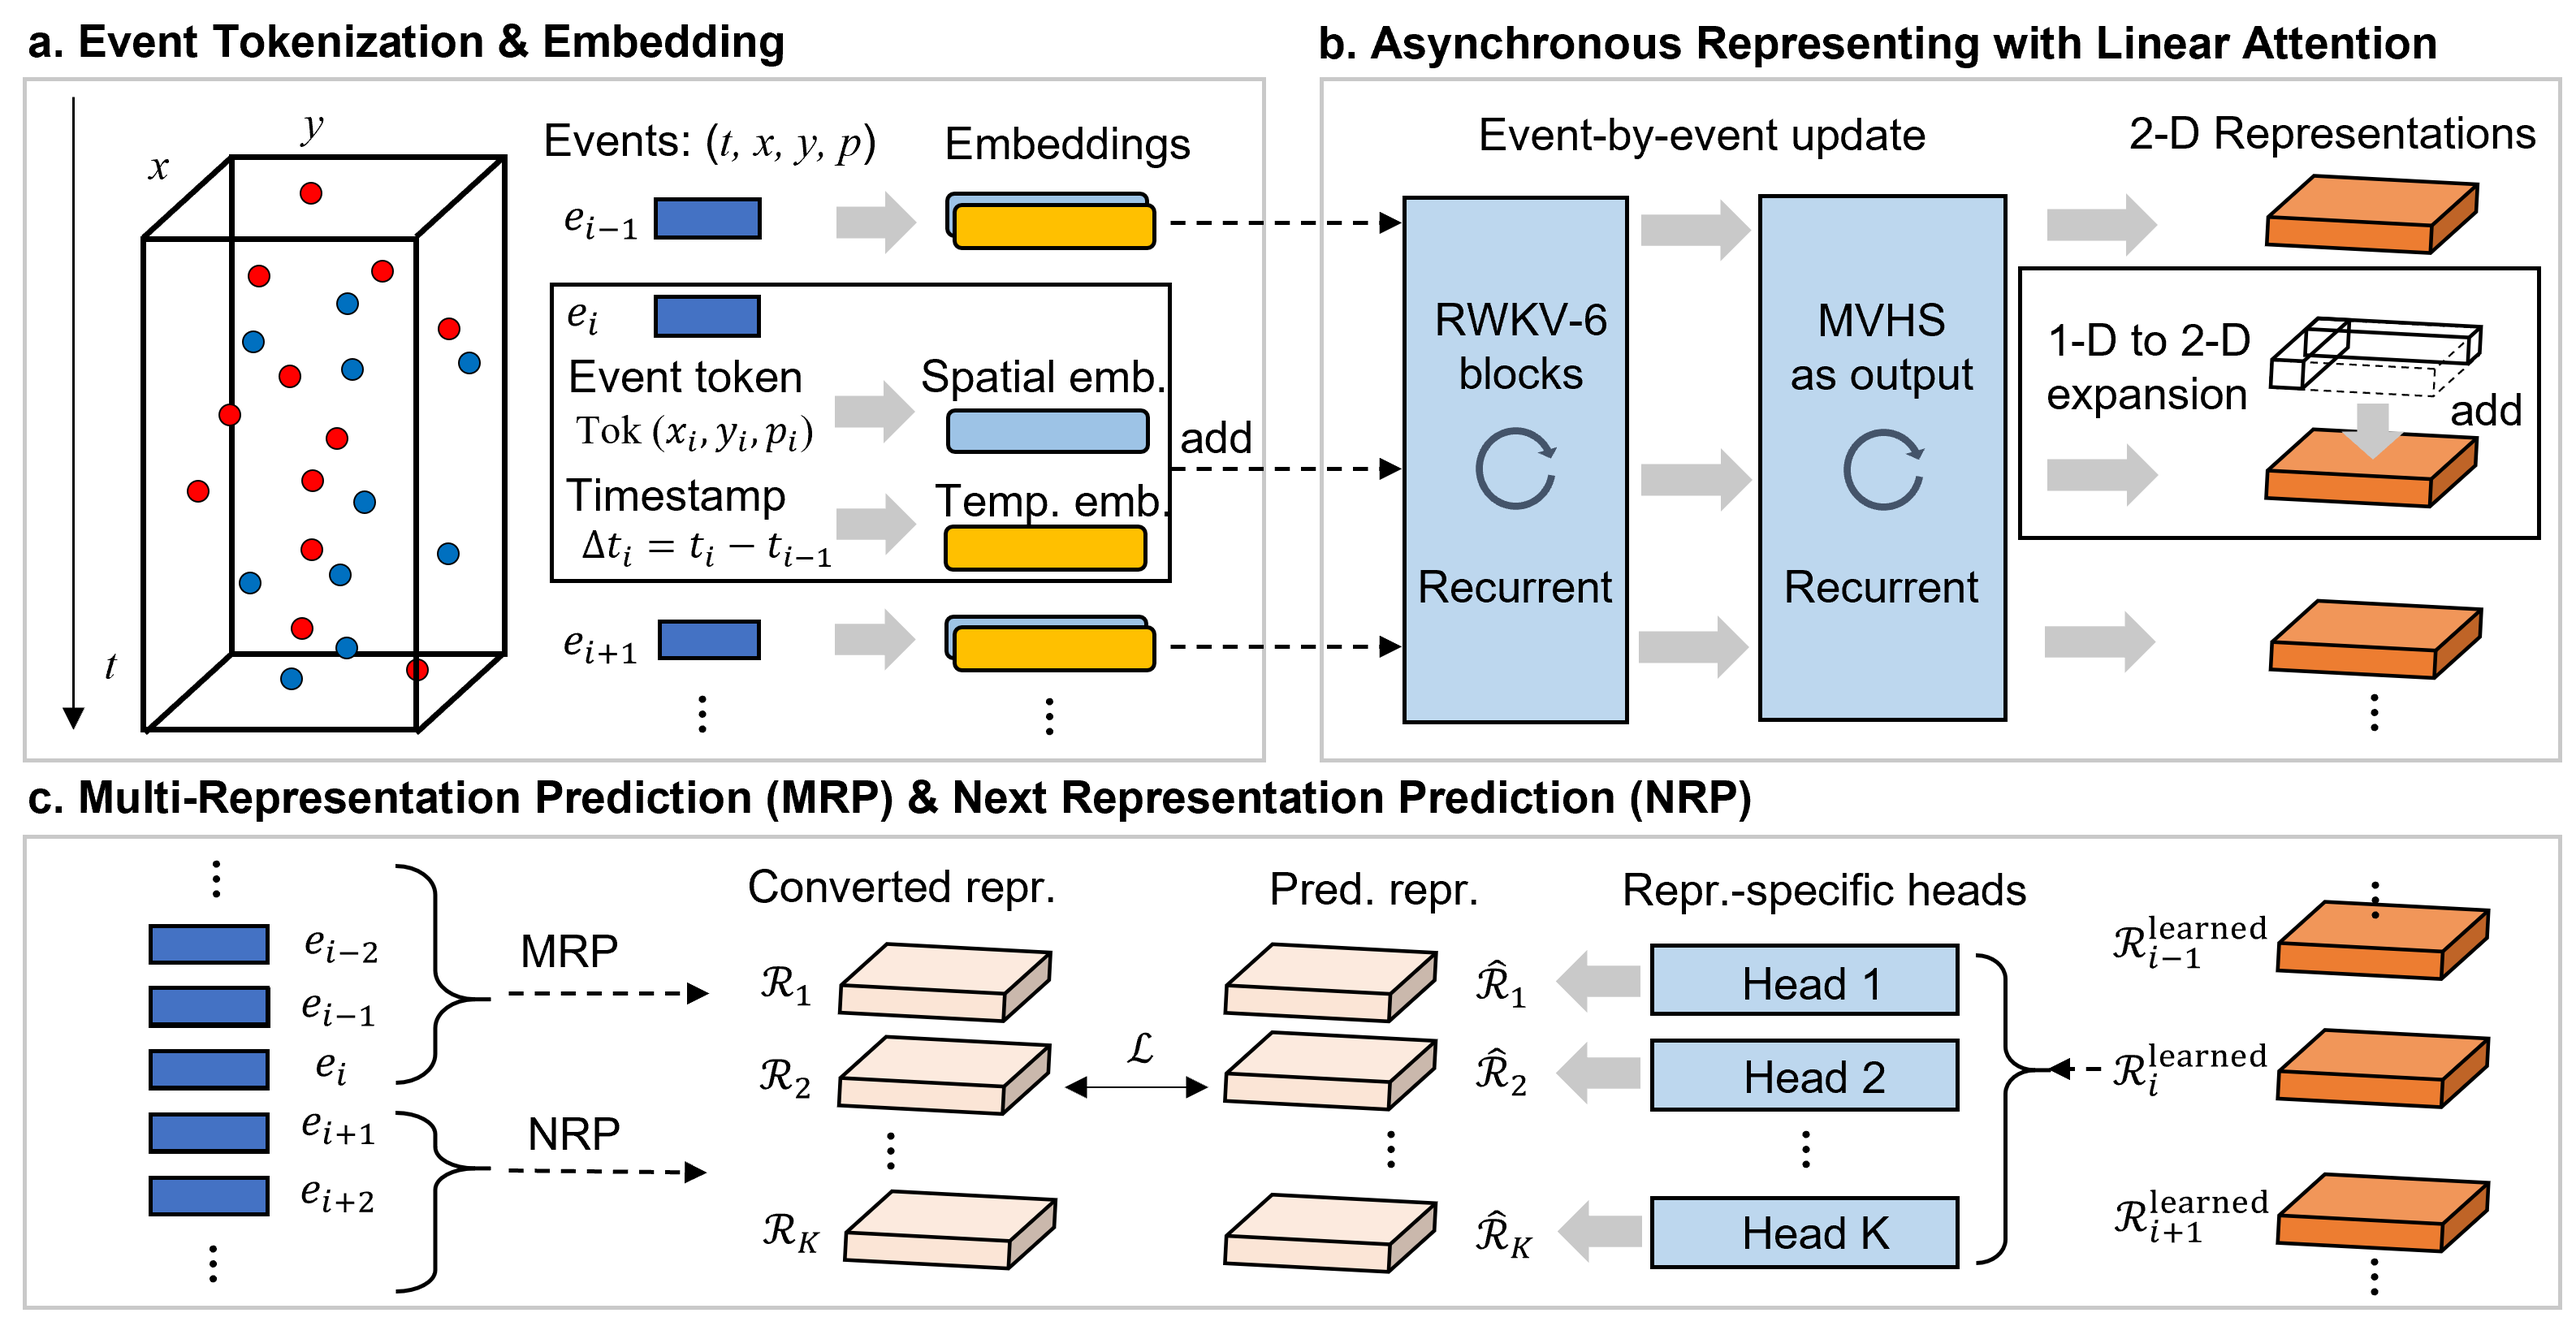
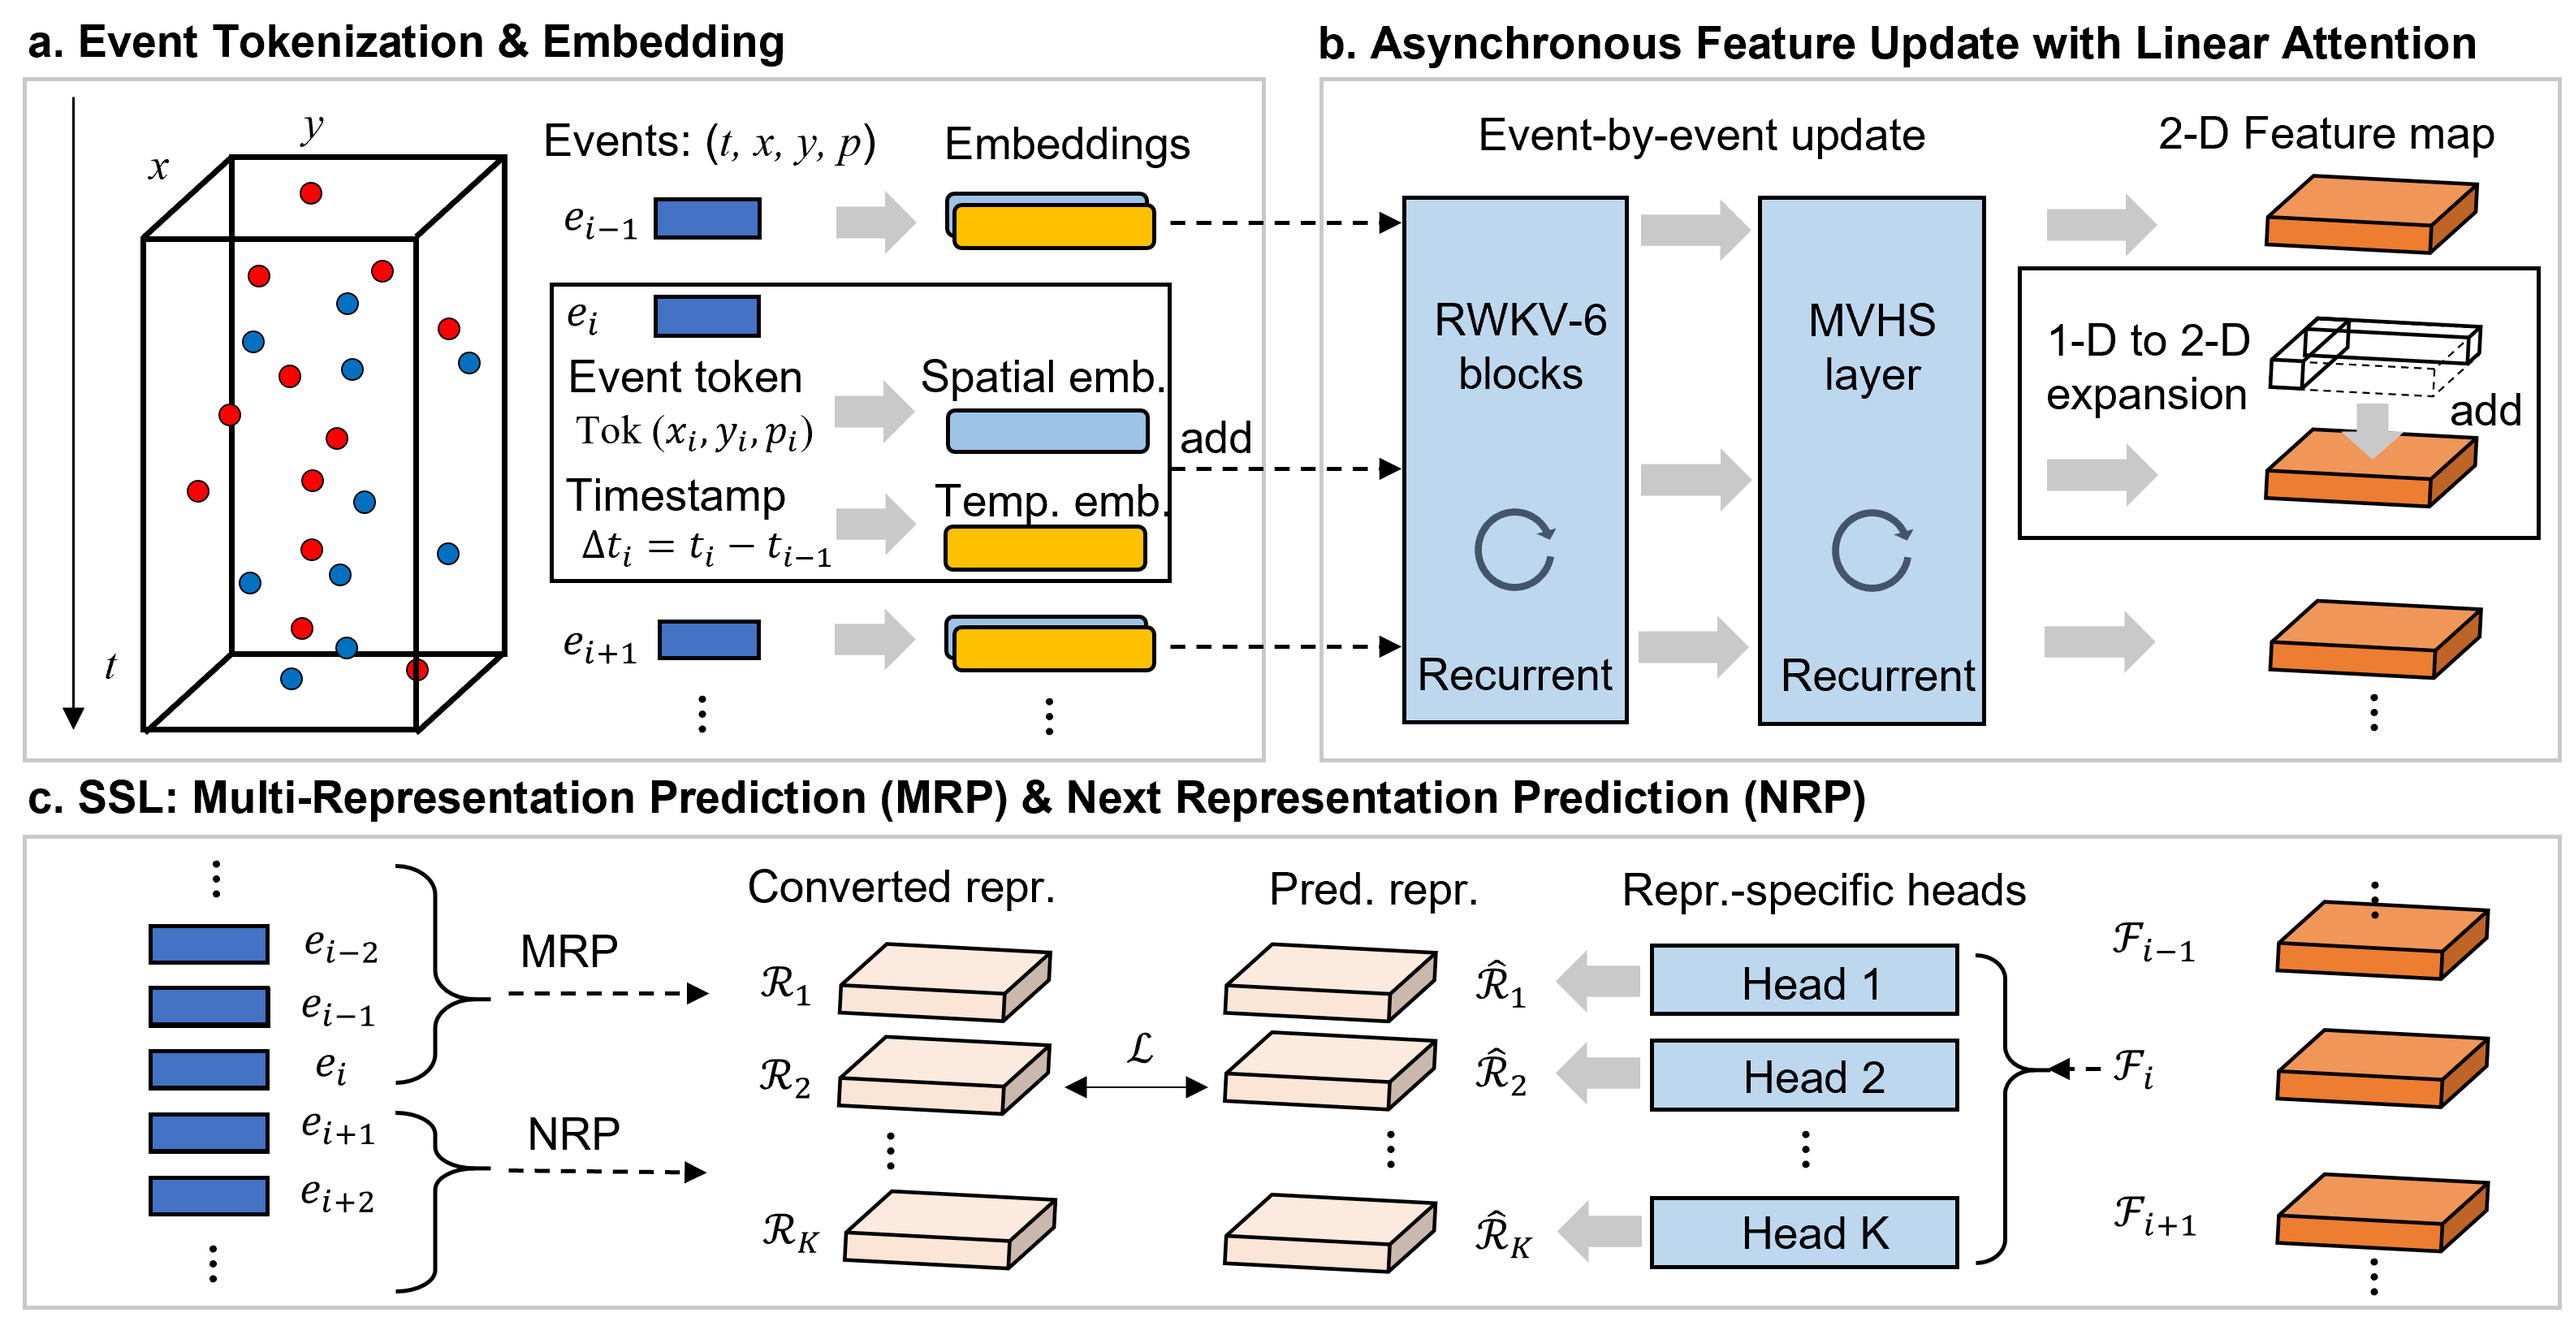
Updated the conference information for the project "Maximizing Asynchronicity in Event-based Neural Networks" from "Arxiv 2025" to "ICLR 2026 (Rio de Janeiro, Brazil)". Also, added the Nature paper.

diff --git a/index.html b/index.html
@@ -242,7 +242,30 @@
                 <h3 class="h3 service-title">Recent News</h3>
               
                 <ul class="service-list">
-                  
+                  <li class="service-item">
+                    <div class="service-icon-box">
+                      <img src="./assets/icons/news_icon.png" alt="news icon" width="40">
+                    </div>
+                    <div class="service-content-box">
+                      <h4 class="h4 service-item-title">Jan. 30, 2026</h4>
+                      <p class="service-item-text">
+                        A big milestone for me! Our paper "A benchmark of expert-level academic questions to assess AI capabilities" has been published in <a href="https://www.nature.com/articles/s41586-025-09962-4" style="display: inline; color: var(--orange-yellow-crayola);">Nature</a>!                      
+                      </p>
+                    </div>
+                  </li>
+
+                  <li class="service-item">
+                    <div class="service-icon-box">
+                      <img src="./assets/icons/news_icon.png" alt="news icon" width="40">
+                    </div>
+                    <div class="service-content-box">
+                      <h4 class="h4 service-item-title">Jan. 26, 2026</h4>
+                      <p class="service-item-text">
+                        "Maximizing Asynchronicity in Event-based Neural Networks" has been accepted at ICLR 2026 (this year in Brazil)!
+                      </p>
+                    </div>
+                  </li>
+
                   <li class="service-item">
                     <div class="service-icon-box">
                       <img src="./assets/icons/news_icon.png" alt="news icon" width="40">
@@ -664,6 +687,39 @@
           </div>
 
           <ul class="project-list">
+            <li class="project-item  active" data-filter-item data-category="collaborations">
+              <a href="https://www.nature.com/articles/s41586-025-09962-4">
+                <figure class="project-img">
+                  <div class="project-item-icon-box">
+                    <ion-icon name="eye-outline"></ion-icon>
+                  </div>
+
+                  <img src="./assets/images/nature_2026.jpeg" alt="nature_2026" loading="lazy" style="height: 200px;">
+                </figure>
+
+                <h3 class="project-title">A benchmark of expert-level academic questions to assess AI capabilities</h3>
+
+                <p class="project-category">Nature, 2026</p>
+
+              </a>
+            </li>
+
+            <li class="project-item  active" data-filter-item data-category="collaborations">
+              <a href="https://arxiv.org/abs/2505.11165">
+                <figure class="project-img">
+                  <div class="project-item-icon-box">
+                    <ion-icon name="eye-outline"></ion-icon>
+                  </div>
+
+                  <img src="./assets/images/Maximizing_Asynchronicity_in_Event_based_Neural_Networks.png" alt="maximizing_asynchronicity_in_event_based_neural_networks" loading="lazy" style="height: 180px;">
+                </figure>
+
+                <h3 class="project-title">Maximizing Asynchronicity in Event-based Neural Networks</h3>
+
+                <p class="project-category">ICLR 2026 (Rio de Janeiro, Brazil)</p>
+
+              </a>
+            </li>
             <li class="project-item  active" data-filter-item data-category="first author">
               <a href="https://arxiv.org/abs/2505.11602">
 
@@ -677,22 +733,6 @@
 
                 <h3 class="project-title">Regularity and Stability Properties of Selective SSMs with Discontinuous Gating</h3>
                 <p class="project-category">ArXiv 2025</p>
-              </a>
-            </li>
-            <li class="project-item  active" data-filter-item data-category="collaborations">
-              <a href="https://arxiv.org/abs/2505.11165">
-                <figure class="project-img">
-                  <div class="project-item-icon-box">
-                    <ion-icon name="eye-outline"></ion-icon>
-                  </div>
-
-                  <img src="./assets/images/Maximizing_Asynchronicity_in_Event_based_Neural_Networks.png" alt="maximizing_asynchronicity_in_event_based_neural_networks" loading="lazy" style="height: 180px;">
-                </figure>
-
-                <h3 class="project-title">Maximizing Asynchronicity in Event-based Neural Networks</h3>
-
-                <p class="project-category">Arxiv 2025</p>
-
               </a>
             </li>
           
@@ -744,7 +784,7 @@
 
                 <h3 class="project-title">Humanity's Last Exam</h3>
 
-                <p class="project-category">Arxiv 2025</p>
+                <p class="project-category">https://agi.safe.ai/</p>
 
               </a>
             </li>
